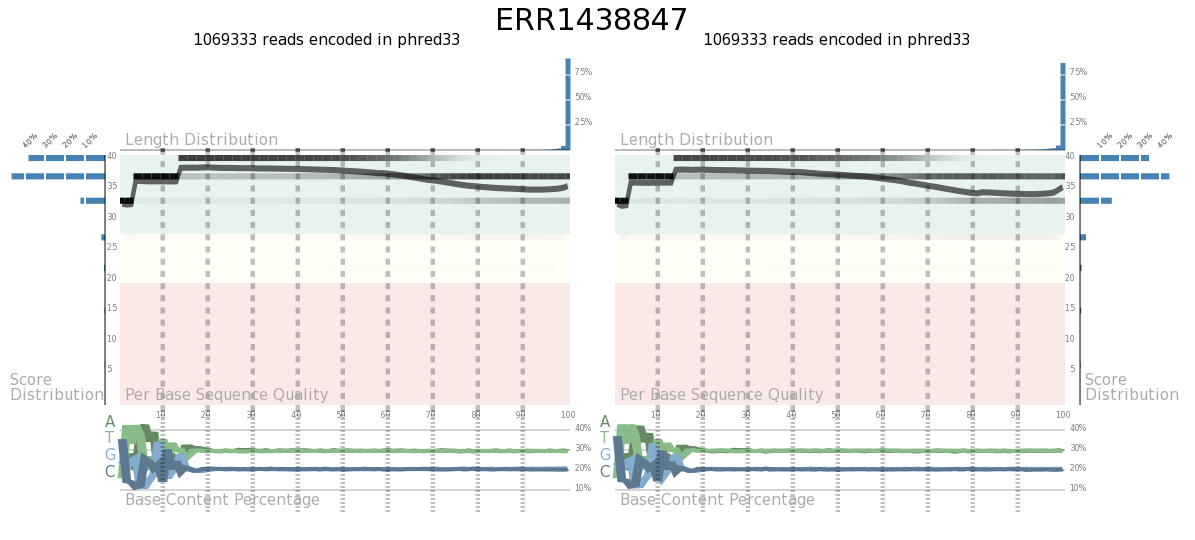
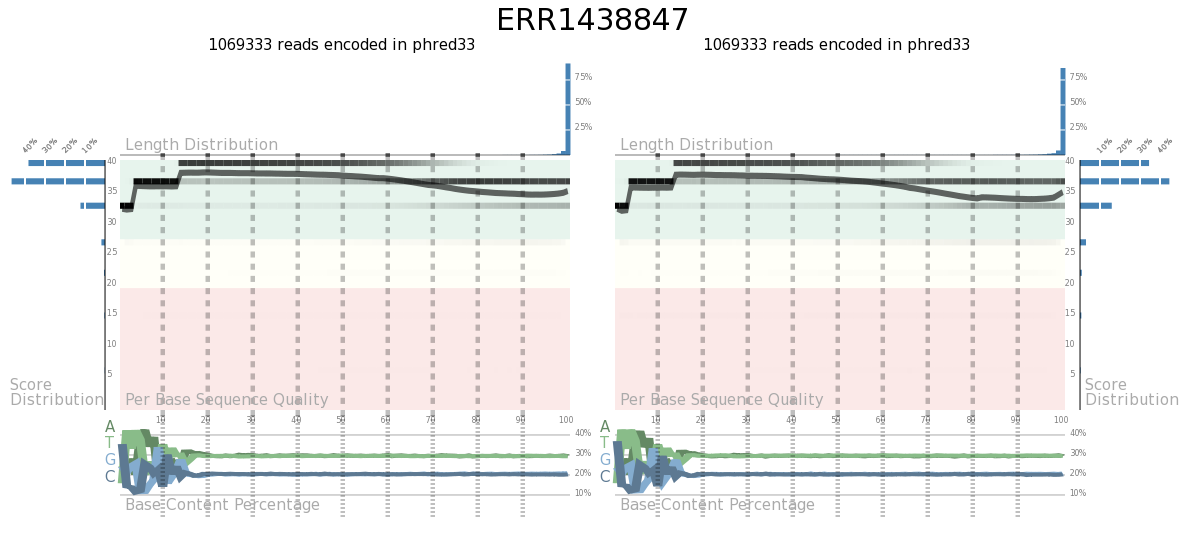
Clean code

diff --git a/src/draw_svg.c b/src/draw_svg.c
@@ -59,6 +59,18 @@ char * point_string(int length, fpair_t* p){
 #define svg_end_label() svg_end_tag("text")
 
 
+int calc_step(float min, float max, int breaks){
+    float length = max - min;
+    /* Find a tick step that is
+     * - at least 5
+     * - divisible by 5,
+     * - creates 5 ticks */
+    int step = length/breaks;
+    step = (step /5 )*5;
+    if (step < 5) step = 5;
+
+    return step;
+}
 
 
 void draw_svg_distro(int length, fpair_t* p,
@@ -88,18 +100,6 @@ void draw_svg_distro(int length, fpair_t* p,
     );
 
 
-    /* /\* Draw distribution *\/ */
-    /* char* points = point_string(length, p); */
-
-    /* svg_simple_tag("polyline", 5, */
-    /*                svg_attr("points", "%s", points), */
-    /*                svg_attr("stroke", "%s", "steelblue"), */
-    /*                svg_attr("fill", "%s", "none"), */
-    /*                svg_attr("stroke-width", "%fpx", 0.5), */
-    /*                svg_attr("vector-effect", "%s", "non-scaling-stroke") */
-    /* ); */
-
-    /* free(points); */
 
     for( i = 0; i < length; i++  )
         svg_simple_tag("rect",5,
@@ -111,13 +111,7 @@ void draw_svg_distro(int length, fpair_t* p,
                        );
 
 
-    /* Find a tick step that is
-     * - at least 5
-     * - divisible by 5,
-     * - creates 5 ticks */
-    int step = original.y/4;
-    step = (step /5 )*5;
-    if (step < 5) step = 5;
+    int step = calc_step(0,original.y,4);
 
     for(i = step; i < original.y; i+=step){
         svg_simple_tag("line", 7,
@@ -158,11 +152,7 @@ void draw_svg_distro(int length, fpair_t* p,
      * - at least 5
      * - divisible by 5,
      * - creates 10 ticks */
-    step = length/10;
-    step = (step /5 )*5;
-    if (step < 5) step = 5;
-
-
+    step = calc_step(0, length, 10);
 
     for (i = step; i <= length - step; i += step){
         svg_simple_tag("line", 7,
@@ -194,35 +184,26 @@ void draw_svg_distro(int length, fpair_t* p,
 
 
 
-void draw_svg_content(sequence_data* data, fpair_t translate){
+void draw_svg_content(sequence_data* data, fpair_t translate, float max){
 
-    unsigned int i;
-    int j;
+    unsigned int i, j;
 
-    uint64_t len, y;
+    uint64_t len;
     char * points;
-    float max;
 
     fpair_t *perc[4];
     for(i = 0; i < 4; i++){
         perc[i] = malloc(sizeof(fpair_t[data->max_length]));
     }
 
-    /* Calculate cumulative percentage of base content, in decending order so
-     * they stack */
+    /* Calculate cumulative percentage of base content */
     for(i = 0; i < data->max_length; i++){
-
-        y = 0;
         len = data->bases[i].length_count;
-        for (j = 3; j >= 0; j--) {
+        for (j = 0; j < 4; j++) {
             perc[j][i].x = i +0.5;
             perc[j][i].y = data->bases[i].content[j] * 100.0 / len;
-
-            if(max < perc[j][i].y) max = perc[j][i].y;
         }
     }
-
-    max = ceil(max / 10.0) * 10.0;
 
     svg_start_tag("g", 1, svg_attr("transform", "translate(%f %f)", translate.x, translate.y));
     svg_start_tag("g", 1,
@@ -282,13 +263,7 @@ void draw_svg_content(sequence_data* data, fpair_t translate){
 
     }
 
-        /* Find a tick step that is
-     * - at least 5
-     * - divisible by 5,
-     * - creates 10 ticks */
-    int step = data->max_length/10;
-    step = (step /5 )*5;
-    if (step < 5) step = 5;
+    int step = calc_step(0, data->max_length, 10);
 
 
 
@@ -405,13 +380,7 @@ void draw_svg_quality(sequence_data* data, fpair_t translate){
     free(p);
 
 
-    /* Find a tick step that is
-     * - at least 5
-     * - divisible by 5,
-     * - creates 10 ticks */
-    int step = data->max_length/10;
-    step = (step /5 )*5;
-    if (step < 5) step = 5;
+    int step = calc_step(0, data->max_length, 10);
 
     /*  invert scale */
     fpair_t scale = { 1.0 / (GRAPH_WIDTH/data->max_length),
@@ -456,8 +425,8 @@ void draw_svg_quality(sequence_data* data, fpair_t translate){
                       svg_attr("vector-effect", "%s", "non-scaling-size"),
                       svg_attr("fill",        "%s", "black"),
                       svg_attr("fill-opacity",        "%f", 0.5),
-                      svg_attr("transform", "translate(%d %f) scale(%f %f)",
-                               data->max_length, -2.0,
+                      svg_attr("transform", "translate(%f %f) scale(%f %f)",
+                               data->max_length-0.5, -2.0,
                                scale.x, scale.y));
 
         printf("%" PRIu64, data->max_length);
@@ -495,11 +464,6 @@ void draw_svg_length(sequence_data * data, fpair_t translate, float max){
         different |= (points[i].y > 0.0);
     }
 
-    // check last point
-    if(max < points[i].y) max = points[i].y;
-
-    // Adjust max to nearest ten
-    max = ceil(max / 10.0) * 10.0;
 
     original_size = (fpair_t){data->max_length, max};
     final_size    = (fpair_t){GRAPH_WIDTH, PERF_SIZE};
@@ -559,9 +523,6 @@ void draw_svg_score(sequence_data * data, fpair_t translate, int flipx, float ma
         points[i].y = points[i].y * 100.0 / total;
     }
 
-    // Get next ten for max
-    max = ceil(max/10.0)*10.0;
-
     original = (fpair_t){max, data->max_score+1};
     final    = (fpair_t){PERF_SIZE, GRAPH_HEIGHT};
 
@@ -596,13 +557,7 @@ void draw_svg_score(sequence_data * data, fpair_t translate, int flipx, float ma
                        svg_attr("fill",   "%s", "steelblue")
                        );
 
-    /* Find a tick step that is
-     * - at least 5
-     * - divisible by 5,
-     * - creates 10 ticks */
-    int step = max/4;
-    step = (step /5 )*5;
-    if (step < 5) step = 5;
+    int step = calc_step(0, max, 4);
 
     for(i = step; i < max; i+=step){
         svg_simple_tag("line", 7,
@@ -640,13 +595,7 @@ void draw_svg_score(sequence_data * data, fpair_t translate, int flipx, float ma
                    svg_attr("stroke-width", "%f", 0.5));
 
 
-    /* Find a tick step that is
-     * - at least 5
-     * - divisible by 5,
-     * - creates 10 ticks */
-    step = data->max_score/10;
-    step = (step /5 )*5;
-    if (step < 5) step = 5;
+    step = calc_step(0, data->max_score, 10);
 
     /*  loop through each step. excluded last step if too close to max score */
     for (i = step; i < data->max_score - (step/2); i += step){
@@ -743,6 +692,9 @@ float get_max(sequence_data* f, sequence_data* r,
         }
     }
 
+    // Adjust max to nearest ten
+    max = ceil(max / 10.0) * 10.0;
+
     return max;
 }
 
@@ -786,35 +738,48 @@ float get_max_score(sequence_data* f, sequence_data* r){
     return get_max(f,r,score_stop,score_accessor);
 }
 
+inline float content_accessor(sequence_data* data, int i){
+    int j;
+    uint64_t max = 0;
+    for (j = 3; j >= 0; j--) {
+        if(max < data->bases[i].content[j])
+            max =  data->bases[i].content[j];
+    }
+    return max * 100.0 / data->bases[i].length_count;
+}
+float get_max_content(sequence_data* f, sequence_data* r){
+    return get_max(f,r,length_stop,content_accessor);
+}
 
 void draw_svg(sequence_data* forward,
               sequence_data* reverse,
               char* name,
               int adapters_used){
 
+    int i;
+    sequence_data* list[2] = {forward, reverse};
+
     float max_length  = get_max_length(forward, reverse);
     float max_score   = get_max_score(forward, reverse);
     float max_adapter = get_max_adapter(forward, reverse);
+    float max_content = get_max_content(forward, reverse);
 
-    fpair_t translate = {GRAPH_PAD*2 + PERF_SIZE + 10, GRAPH_PAD};
 
-    /* Set width */
-    int width = 615;
+    /* Set size */
+    fpair_t size = {615, 510};
     if(reverse)
-        width = 1195;
+        size.x = 1195;
 
-    /* Set height */
-    int height = 510;
     if(adapters_used)
-        height = 610;
+        size.y = 610;
     if(name != NULL)
-        height += 30;
+        size.y += 30;
 
     // Start svg
     svg_start_tag("svg", 5,
-                  svg_attr("width",   "%d", width),
-                  svg_attr("height",  "%d", height),
-                  svg_attr("viewBox", "%d %d %d %d", 0, 0, width, height),
+                  svg_attr("width",   "%f", size.x),
+                  svg_attr("height",  "%f", size.y),
+                  svg_attr("viewBox", "%f %f %f %f", 0.0, 0.0, size.x, size.y),
                   svg_attr("xmlns",       "%s", "http://www.w3.org/2000/svg"),
                   svg_attr("xmlns:xlink", "%s", "http://www.w3.org/1999/xlink")
                   );
@@ -822,7 +787,7 @@ void draw_svg(sequence_data* forward,
     /* If name is given, add to middle of viewBox (half of width + min-x of viewbox) */
     if(name != NULL){
         svg_start_tag("text", 6,
-                      svg_attr("x", "%d", (width/2)),
+                      svg_attr("x", "%f", (size.x/2)),
                       svg_attr("y", "%d", 30),
                       svg_attr("font-family", "%s", "sans-serif"),
                       svg_attr("text-anchor", "%s", "middle"),
@@ -832,85 +797,49 @@ void draw_svg(sequence_data* forward,
         svg_end_tag("text");
 
         svg_start_tag("g", 1,
-                      svg_attr("transform", "translate(%d %d)", 0, 45)
+                      svg_attr("transform", "translate(%d %d)", 0, 50)
         );
 
     }
 
 
-
-    svg_start_tag("text", 6,
-                      svg_attr("x", "%f", (GRAPH_WIDTH/2) + PERF_SIZE + GRAPH_PAD),
-                      svg_attr("y", "%d", 0),
-                      svg_attr("font-family", "%s", "sans-serif"),
-                      svg_attr("text-anchor", "%s", "middle"),
-                      svg_attr("font-size",   "%s", "15px"),
-                      svg_attr("fill",        "%s", "black"));
-        printf("%" PRId64 " reads encoded in phred%d\n", forward->number_of_sequences, forward->encoding);
-        svg_end_tag("text");
-
-
-    draw_svg_length(forward, translate, max_length);
-
-    translate.y += PERF_SIZE + GRAPH_PAD;
-
-
-
-
-    draw_svg_score(forward, (fpair_t){GRAPH_PAD, translate.y}, 0, max_score);
-
-
-
-    draw_svg_quality(forward, translate);
-
-    translate.y += GRAPH_HEIGHT + GRAPH_PAD;
-
-    draw_svg_content(forward, translate);
-
-
-
-    translate.y += PERF_SIZE + GRAPH_PAD;
-    if(adapters_used){
-        draw_svg_adapter(forward, translate, max_adapter);
-
-    }
-
-    if(reverse){
+    fpair_t translate = {GRAPH_PAD*2 + PERF_SIZE + 10, GRAPH_PAD};
+    float score_locations[2] = {GRAPH_PAD, GRAPH_PAD*4 + GRAPH_WIDTH*2 + PERF_SIZE + 60};
+    for(i = 0; i < 2; i++){
+        sequence_data * data = list[i];
+        if(data == NULL) continue;
+       
         translate.y = GRAPH_PAD;
-        translate.x += GRAPH_PAD + GRAPH_WIDTH + 40;
 
-
-    svg_start_tag("text", 6,
+        svg_start_tag("text", 6,
                       svg_attr("x", "%f", (GRAPH_WIDTH/2) + translate.x),
                       svg_attr("y", "%d", 0),
                       svg_attr("font-family", "%s", "sans-serif"),
                       svg_attr("text-anchor", "%s", "middle"),
                       svg_attr("font-size",   "%s", "15px"),
                       svg_attr("fill",        "%s", "black"));
-        printf("%" PRIu64 " reads encoded in phred%d\n", reverse->number_of_sequences, reverse->encoding);
+        printf("%" PRId64 " reads encoded in phred%d\n", data->number_of_sequences, data->encoding);
         svg_end_tag("text");
 
 
-        draw_svg_length(reverse, translate, max_length);
+        draw_svg_length(data, translate, max_length);
 
         translate.y += PERF_SIZE + GRAPH_PAD;
 
+        draw_svg_score(data, (fpair_t){score_locations[i], translate.y}, i, max_score);
 
 
-        draw_svg_score(reverse,
-                       (fpair_t){translate.x + GRAPH_WIDTH + GRAPH_PAD + 10, translate.y}, 1, max_score);
-        draw_svg_quality(reverse, translate);
+        draw_svg_quality(data, translate);
 
         translate.y += GRAPH_HEIGHT + GRAPH_PAD;
-
-        draw_svg_content(reverse, translate);
+        draw_svg_content(data, translate, max_content);
 
         translate.y += PERF_SIZE + GRAPH_PAD;
         if(adapters_used)
-            draw_svg_adapter(reverse, translate, max_adapter);
+            draw_svg_adapter(data, translate, max_adapter);
 
+        translate.x += GRAPH_PAD + GRAPH_WIDTH + 40;
     }
-
 
     if(name != NULL) svg_end_tag("g");
 
